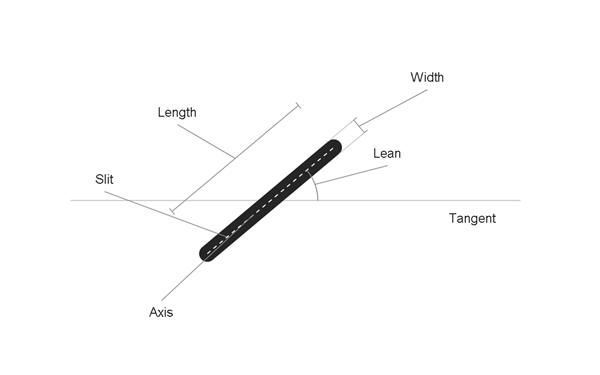
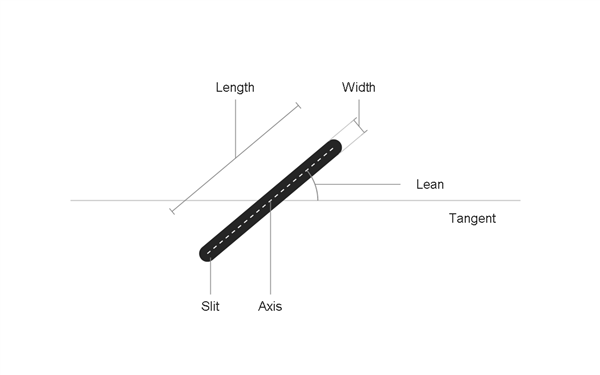
Make glossary figures static with aligned callouts

diff --git a/docs/GLOSSARY.md b/docs/GLOSSARY.md
@@ -2,7 +2,7 @@
 
 Terms used by the [axioms](AXIOMS.md), [model](MODEL.md) and [junction construction](JUNCTIONS.md).
 
-![Guide, slit, nominal and adjusted gaps, landmark, protected gap and free span](../examples/illustrated/assets/terms-layout.gif)
+![Guide, slit, nominal and adjusted gaps, landmark, protected gap and free span](../examples/illustrated/assets/terms-layout.png)
 
 Notation: `s` start, `e` end, arrow for direction, `L1` landmark. The `I` crossbars identify slits bordering adjusted gaps.
 
@@ -18,7 +18,7 @@ An editable path on which real slit centres lie, made of straight or circular **
 
 A slit is one type of **opening**; a round hole is the other. Its **axis** is the finite centreline between its tips. **Length** $\ell$ runs along that axis, **width** $w$ across it, and **lean** $\alpha$ is its signed angle to the guide tangent.
 
-![Magnified slit showing its axis, length, width and lean relative to the tangent](../examples/illustrated/assets/terms-slit.gif)
+![Magnified slit showing its axis, length, width and lean relative to the tangent](../examples/illustrated/assets/terms-slit.png)
 
 A **virtual slit** is construction only: its selected tip helps locate a corner hole. It is not a separate opening.
 
@@ -32,7 +32,7 @@ $$
 g=2R\sin\left(\frac{\theta}{2}\right),\qquad s_{\mathrm{arc}}=R\theta.
 $$
 
-![Chord length measured straight between slit centres, compared with arc length along the guide](../examples/illustrated/assets/terms-chord.gif)
+![Chord length measured straight between slit centres, compared with arc length along the guide](../examples/illustrated/assets/terms-chord.png)
 
 At $R=3\,\mathrm{mm}$ and $\theta=\pi/3$, the nominal chord gap is $3\,\mathrm{mm}$; the arc length is approximately $3.14\,\mathrm{mm}$.
 
@@ -48,7 +48,7 @@ Consecutive equal adjusted gaps form an **adjustment block** within a free span.
 
 A meeting with two or more **arms**: portions of stitch lines extending away from it. A through-line contributes two arms, a T has three, and an X has four.
 
-![A T junction with one shared round hole and three arms](../examples/illustrated/assets/terms-junction.gif)
+![A T junction with one shared round hole and three arms](../examples/illustrated/assets/terms-junction.png)
 
 - A **smooth join** keeps the tangent direction. Straight or co-circular continuation at equal pitch remains one run; a smooth change of curvature shares one slit.
 - A **sharp corner** has two arms with different tangent directions. Virtual slits locate its shared round hole.

diff --git a/examples/illustrated/README.md b/examples/illustrated/README.md
@@ -102,21 +102,21 @@ The outgoing corner step increases to approximately $3.21\,\mathrm{mm}$ to bring
 
 ## Glossary close-ups
 
-The [glossary](../../docs/GLOSSARY.md) groups the terms around four annotated examples.
+The [glossary](../../docs/GLOSSARY.md) uses four static figures with aligned labels and horizontal or vertical leaders.
 
-![Guide, gaps, landmark and free span](assets/terms-layout.gif)
+![Guide, gaps, landmark and free span](assets/terms-layout.png)
 
 `ILL-TERMS-LAYOUT`: the same `F02` layout as the landmark example, with nominal, adjusted and protected gaps identified.
 
-![Slit axis, length, width, lean and tangent](assets/terms-slit.gif)
+![Slit axis, length, width, lean and tangent](assets/terms-slit.png)
 
 `ILL-TERMS-SLIT`: magnified profile with $\ell=1.5\,\mathrm{mm}$, $w=0.15\,\mathrm{mm}$ and $\alpha=40^\circ$.
 
-![Junction, shared round hole and three arms](assets/terms-junction.gif)
+![Junction, shared round hole and three arms](assets/terms-junction.png)
 
 `ILL-TERMS-JUNCTION`: the same T junction as `ILL-JUNCTION`, with each arm identified.
 
-![Chord length compared with arc length between the same slit centres](assets/terms-chord.gif)
+![Chord length compared with arc length between the same slit centres](assets/terms-chord.png)
 
 `ILL-TERMS-CHORD`: a nominal $3\,\mathrm{mm}$ chord on a $3\,\mathrm{mm}$ radius. The corresponding arc length is $\pi\,\mathrm{mm}$.
 
@@ -132,7 +132,7 @@ node tests/validate-cases.mjs
 
 - `scenes.mjs`: catalog inputs, analytic constructions, diagram elements and reveal timing.
 - `build.ps1`: renders those elements and encodes the frames. Temporary files stay under `output/illustrated/`.
-- `assets/<name>.gif`: looping illustration. Matching `.svg` and `.png` files contain the final state for still-image use.
+- `assets/<name>.gif`: looping illustration. Matching `.svg` and `.png` files contain the final state. Glossary figures (`terms-*`) use only SVG/PNG.
 - `tests/cases.json`: source cases and stable illustration IDs. The validator checks drawn geometry, constraints, GIF frame counts, delays and looping.
 
 ### Notation

diff --git a/docs/AGENTS.md b/docs/AGENTS.md
@@ -19,6 +19,7 @@
 - Use a 600 × 375 px landscape canvas (16:10) for illustrated examples, including every animation frame. Compose and check label readability at 600 px wide.
 - Compose examples from independent diagram elements. Use automatically looping GIF/silent WebM animations with SVG masters and PNG still fallbacks, with no playback controls or interactive UI. Generate frames from the elements rather than recording CAD or the screen.
 - Use small, direct examples, each showing one geometric problem or decision. Keep comparison inputs identical and make their different placement policies explicit.
+- Glossary figures are static SVG/PNG diagrams. Align labels and use horizontal or vertical leaders; keep dimension lines aligned with the measured feature.
 - Record setup, progressive reveal, conflict, response, final state, captions and source case/rule references. Animation is the primary example; keep a final-state still fallback. Keep titles, counters and prose outside the figure.
 - Distinguish explanatory reveal order from solver order and physical execution. Show changing positions as planning revisions; keep deliberate failures distinct from valid Autostitch output.
 - Follow the glossary, axioms, model and junction construction. Reuse catalog IDs where possible; identify unresolved geometry or native verification explicitly rather than inventing evidence.

diff --git a/docs/PITCH_skeleton.md b/docs/PITCH_skeleton.md
@@ -26,7 +26,7 @@ Research note: Anthony to find stitching examples from:
 
 - [Glossary](GLOSSARY.md): guide, slit, gap, landmark, junction and arm
 
-![Guide, slit, gaps, landmark and free span](../examples/illustrated/assets/terms-layout.gif)
+![Guide, slit, gaps, landmark and free span](../examples/illustrated/assets/terms-layout.png)
 
 # The spacing problem
 
